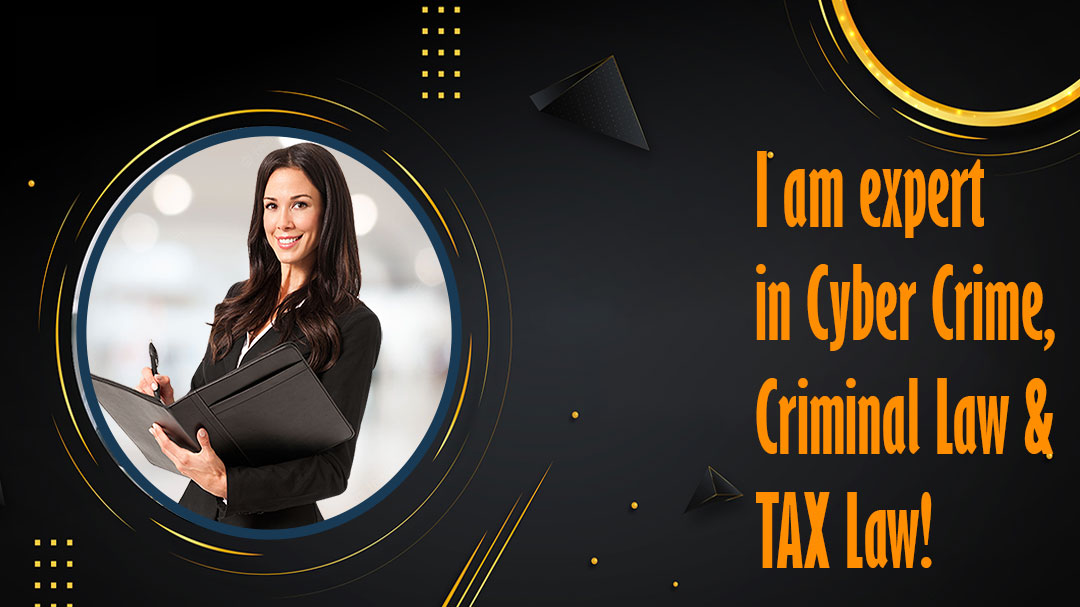
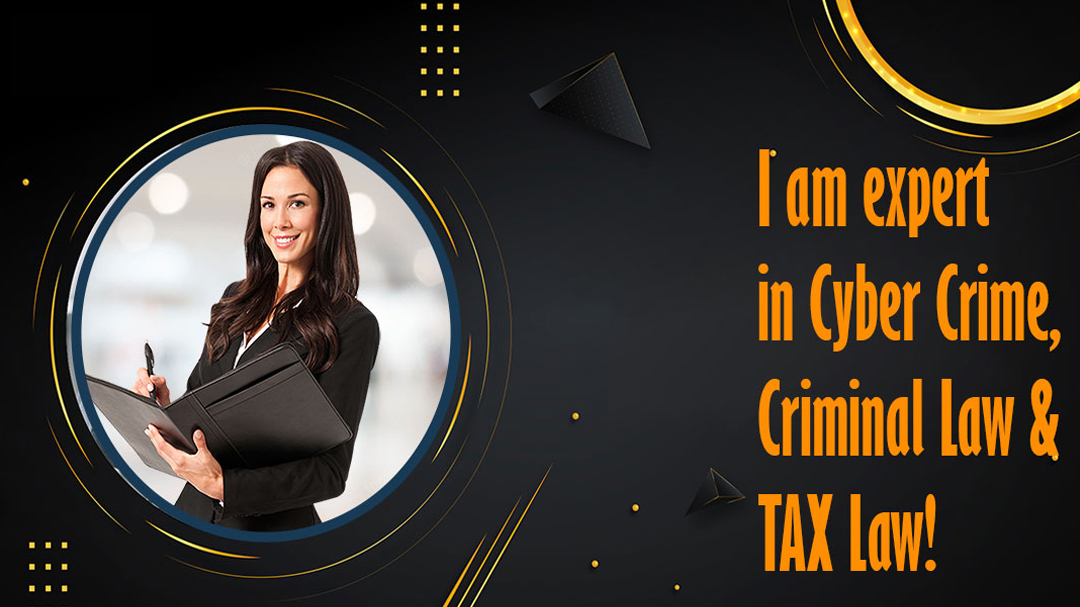
autoplay slider added and add animation

diff --git a/src/Componets/AboutSection.js b/src/Componets/AboutSection.js
@@ -1,4 +1,5 @@
 import React from 'react';
+import Fade from 'react-reveal/Fade';
 import experience from '../assests/experience.png';
 import laura from '../assests/laura-jane-chamber.png';
 
@@ -6,18 +7,22 @@ const AboutSection = () => {
     return (
         <div className='bg-gray-100'>
             <div className='w-11/12 lg:w-10/12 mx-auto lg:flex justify-between items-center py-5'>
-                <div className='w-full lg:w-2/5'>
-                    <h1 className='text-jane text-4xl lg:text-6xl font-semibold'>About <br/> Laura Jane</h1>
-                    <p className='text-lg font-semibold py-5'>
-                        Over the years, the Laura Jane have achieved several domestic and international awards; and have worked with several fortune 150 companies, MNC's, Private Individual, & corporations with great success. Its biggest achievement lies in the satisfaction of its clients in every possible manner.
-                        <br/>
-                        I my Career I have served almost 750+ with no service fees and I always feels happy by standing besides of the people with Judicial Support.
-                    </p>
-                </div>
-                <div className='w-full lg:w-2/5 relative'>
-                    <img src={laura} alt="Laura Jane at Chamber" />
-                    <img src={experience} alt="Laura's experience" className='absolute top-0 w-[40%]' />
-                </div>
+                <Fade left>
+                    <div className='w-full lg:w-2/5'>
+                        <h1 className='text-jane text-4xl lg:text-6xl font-semibold'>About <br /> Laura Jane</h1>
+                        <p className='text-lg font-semibold py-5'>
+                            Over the years, the Laura Jane have achieved several domestic and international awards; and have worked with several fortune 150 companies, MNC's, Private Individual, & corporations with great success. Its biggest achievement lies in the satisfaction of its clients in every possible manner.
+                            <br />
+                            I my Career I have served almost 750+ with no service fees and I always feels happy by standing besides of the people with Judicial Support.
+                        </p>
+                    </div>
+                </Fade>
+                <Fade right>
+                    <div className='w-full lg:w-2/5 relative'>
+                        <img src={laura} alt="Laura Jane at Chamber" />
+                        <img src={experience} alt="Laura's experience" className='absolute top-0 w-[40%]' />
+                    </div>
+                </Fade>
             </div>
         </div>
 

diff --git a/src/Componets/PersonalizedAttention.js b/src/Componets/PersonalizedAttention.js
@@ -1,19 +1,25 @@
 import React from 'react';
+import Slide from 'react-reveal/Slide';
 import attention from '../assests/lawyer-listening.jpg';
+
 const PersonalizedAttention = () => {
     return (
         <div className='w-11/12 lg:w-10/12 mx-auto lg:flex justify-between items-center my-5'>
-            <div className='w-full lg:w-2/4'>
-                <h4 className='text-xl font-bold text-jane2nd border-l-4 border-jane2nd pl-5'>I Care About You</h4>
-                <h2 className='text-3xl lg:text-5xl text-jane font-bold my-5'>Personalized Attention</h2>
-                <p className='text-lg font-semibold'>
-                I believe that when you hire an attorney, you should be able to communicate directly with that attorney. You’re not treated like a number at My Chamber- I work hard to understand the specifics of your situation and to craft a compelling case to fight for the best outcome for you.
-                If you problem match any of my given service, then directly contact me, I promise I will give you best support.
-                </p>
-            </div>
-            <div className='w-full lg:w-2/4'>
-                <img src={attention} alt='Personalized Attention' className='rounded-xl my-5' />
-            </div>
+            <Slide left>
+                <div className='w-full lg:w-2/4'>
+                    <h4 className='text-xl font-bold text-jane2nd border-l-4 border-jane2nd pl-5'>I Care About You</h4>
+                    <h2 className='text-3xl lg:text-5xl text-jane font-bold my-5'>Personalized Attention</h2>
+                    <p className='text-lg font-semibold'>
+                        I believe that when you hire an attorney, you should be able to communicate directly with that attorney. You’re not treated like a number at My Chamber- I work hard to understand the specifics of your situation and to craft a compelling case to fight for the best outcome for you.
+                        If you problem match any of my given service, then directly contact me, I promise I will give you best support.
+                    </p>
+                </div>
+            </Slide>
+            <Slide bottom>
+                <div className='w-full lg:w-2/4'>
+                    <img src={attention} alt='Personalized Attention' className='rounded-xl my-5' />
+                </div>
+            </Slide>
         </div>
     );
 };

diff --git a/src/Componets/ReputationSection.js b/src/Componets/ReputationSection.js
@@ -1,18 +1,25 @@
 import React from 'react';
+import Flip from 'react-reveal/Flip';
+import Slide from 'react-reveal/Slide';
 import reputation from '../assests/reputation-law.jpg';
+
 const ReputationSection = () => {
     return (
         <div className='w-11/12 lg:w-8/12 mx-auto lg:flex items-center justify-between my-5'>
-            <div className='w-full lg:w-2/4'>
-                <img src={reputation} alt='Reputation' className='rounded-xl' />
-            </div>
-            <div className='w-full lg:w-2/4'>
-                <h2 className='text-3xl lg:text-5xl text-jane2nd font-bold my-5'>Solid Reputation</h2>
-                <p className='text-lg font-semibold'>
-                    There’s a reason that My reputation precedes me: I have a 15-year history in Washington has garnered me some of the top reviews in the Law Sector. If you or someone you love has suffered the consequences of another person’s negligence, I'm here for you.
-                    If you’re not convinced that you’ve found the right place to handle your case just yet, you will find me best. Go see for yourself what our clients have to say about the quality of services I provide.
-                </p>
-            </div>
+            <Flip left>
+                <div className='w-full lg:w-2/4'>
+                    <img src={reputation} alt='Reputation' className='rounded-xl' />
+                </div>
+            </Flip>
+            <Slide right>
+                <div className='w-full lg:w-2/4'>
+                    <h2 className='text-3xl lg:text-5xl text-jane2nd font-bold my-5'>Solid Reputation</h2>
+                    <p className='text-lg font-semibold'>
+                        There’s a reason that My reputation precedes me: I have a 15-year history in Washington has garnered me some of the top reviews in the Law Sector. If you or someone you love has suffered the consequences of another person’s negligence, I'm here for you.
+                        If you’re not convinced that you’ve found the right place to handle your case just yet, you will find me best. Go see for yourself what our clients have to say about the quality of services I provide.
+                    </p>
+                </div>
+            </Slide>
         </div>
     );
 };

diff --git a/src/Componets/HomeCarousel.js b/src/Componets/HomeCarousel.js
@@ -1,25 +1,29 @@
 import React from 'react';
+import Slider from 'react-slick';
+import "slick-carousel/slick/slick-theme.css";
+import "slick-carousel/slick/slick.css";
 import carousel1 from '../assests/banner/lawyer-1.jpg';
 import carousel2 from '../assests/banner/lawyer-2.jpg';
 const HomeCarousel = () => {
+    const settings = {
+        infinite: true,
+        speed: 1000,
+        slidesToShow: 1,
+        slidesToScroll: 1,
+        autoplay: true,
+        autoplaySpeed: 3000,
+        arrows:true
+    };
     return (
-        <div className='mx-2 lg:mx-0'>
-            <div className="carousel w-full lg:w-10/12 mx-auto h-[200px] lg:h-[500px] rounded-xl my-2 lg:my-5">
-                <div id="slide1" className="carousel-item relative w-full">
-                    <img src={carousel2} className="w-full" alt='' />
-                    <div className="absolute flex justify-between transform -translate-y-1/2 left-5 right-5 top-1/2">
-                        <a href="#slide2" className="btn btn-circle border-none bg-jane2nd hover:bg-jane">❮</a>
-                        <a href="#slide2" className="btn btn-circle border-none bg-jane2nd hover:bg-jane">❯</a>
-                    </div>
+        <div className='w-11/12 lg:w-10/12 mx-auto rounded-xl my-2 lg:my-5'>
+            <Slider {...settings}>
+                <div>
+                    <img src={carousel1} className="w-full h-[200px] lg:h-[450px] rounded-xl px-1" alt='' />
                 </div>
-                <div id="slide2" className="carousel-item relative w-full">
-                    <img src={carousel1} className="w-full" alt='' />
-                    <div className="absolute flex justify-between transform -translate-y-1/2 left-5 right-5 top-1/2">
-                        <a href="#slide1" className="btn btn-circle border-none bg-jane2nd hover:bg-jane">❮</a>
-                        <a href="#slide1" className="btn btn-circle border-none bg-jane2nd hover:bg-jane">❯</a>
-                    </div>
+                <div>
+                    <img src={carousel2} className="w-full h-[200px] lg:h-[450px] rounded-xl px-1" alt='' />
                 </div>
-            </div>
+            </Slider>
         </div>
     );
 };

diff --git a/src/Pages/Home/Home.js b/src/Pages/Home/Home.js
@@ -1,4 +1,5 @@
 import React, { useEffect, useState } from 'react';
+import { Zoom } from 'react-reveal';
 import { Link } from 'react-router-dom';
 import AboutSection from '../../Componets/AboutSection';
 import HomeCarousel from '../../Componets/HomeCarousel';
@@ -21,10 +22,12 @@ const Home = () => {
             <h1 className='text-3xl lg:text-6xl font-bold text-jane text-center my-2 lg:my-5'>Featured Services</h1>
             <div className='w-11/12 lg:w-10/12 mx-auto grid lg:grid-cols-3 gap-5 my-2 lg:my-5'>
                 {
-                    services.map(service => <ServicesShowcase
+                    services.map(service => <Zoom>
+                        <ServicesShowcase
                         key={service._id}
                         service={service}
-                    ></ServicesShowcase>)
+                    ></ServicesShowcase>
+                    </Zoom>)
                 }
             </div>
             <div className='flex justify-center my-5'>

diff --git a/src/index.css b/src/index.css
@@ -13,3 +13,20 @@
 .jane-btn:hover{
     background-color: #03C0A8;
 }
+.slick-prev::before{
+    content: url('./assests/left-arrow.png');
+}
+.slick-next::before{
+    content: url('./assests/right-arrow.png');
+}
+@media only screen and (max-width: 600px) {
+    .slick-next{
+        right: 15px;
+        z-index: 10;
+    }
+    .slick-prev{
+        left: 15px;
+        z-index: 10;
+    }
+
+}
